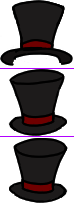
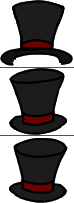
Added hats & accessories (Use /hat and /accessory commands)

diff --git a/website/game/assets.js b/website/game/assets.js
@@ -17,25 +17,62 @@ function loadGameAssets() {
 	ANIM.sit = [[3], 99999]
 	ANIM.wave = [[4,5,4,5,4,5], 0.2]
 
-	// Chicken Customization
-	HATOFFSET = [
-		[[64,1],[64,1],[66,2],[66,9],[64,2],[64,2],[64,1],[64,1]],
-		[[89,3],[89,3],[86,10],[66,9],[64,2],[64,2],[64,1],[64,1]],
-		[[63,2],[63,2],[66,2],[66,9],[64,2],[64,2],[64,1],[64,1]]
-	]
-	ACCESSORYOFFSET = [
-		[[64,1],[64,1],[66,2],[66,9],[64,2],[64,2],[64,1],[64,1]],
-		[[89,3],[89,3],[86,10],[66,9],[64,2],[64,2],[64,1],[64,1]],
-		[[63,2],[63,2],[66,2],[66,9],[64,2],[64,2],[64,1],[64,1]]
-	]
-	IMG.hat = {}
-	IMG.hat["tophat"] = true
-	IMG.accessory = {}
-	IMG.accessory["scarf"] = true
-	IMG.accessory["chain"] = true
-
 	IMG.chatBubble = new RenderImage("assets/chat_bubble.png")
 
+	// Chicken Customization
+	HATOFFSET = [
+		[[64,1],[64,1],[66,2] ,[66,9],[64,2],[64,2],[64,1],[64,1]],
+		[[89,3],[89,3],[86,10],[66,9],[64,2],[64,2],[64,1],[64,1]],
+		[[63,2],[63,2],[66,2] ,[66,9],[64,2],[64,2],[64,1],[64,1]]
+	]
+	ACCESSORYOFFSET = [
+		[[64,55],[64,55],[66,56],[66,63],[64,55],[64,55],[64,1],[64,1]],
+		[[89,49],[89,49],[86,52],[66,63],[64,55],[64,55],[64,1],[64,1]],
+		[[63,56],[63,56],[66,57],[66,63],[64,55],[64,55],[64,1],[64,1]]
+	]
+	IMG.hat = {}
+	SPRITE.hat = {}
+	IMG.hat["tophat"] = true
+	for (const [name, value] of Object.entries(IMG.hat)) {
+		IMG.hat[name] = new RenderImage(`assets/hats/${name}.png`)
+		IMG.hat[name].center = [[0.5, 0.7],[0.5, 0.7],[0.5, 0.7]]
+		fetch(`assets/hats/${name}.json`).then(response => {
+			if (!response.ok) {
+				console.log("JSON Network response was not ok")
+			}
+			return response.json()
+		})
+		.then(data => {
+			IMG.hat[name].center = data.center
+		})
+		.catch(error => {
+			console.log("There was a problem loading the JSON file:", error)
+		})
+		SPRITE.hat[name] = new Sprite(IMG.hat[name], 1, 3, 0, 0, 74, 67, 74, 68)
+	}
+	IMG.accessory = {}
+	SPRITE.accessory = {}
+	IMG.accessory["scarf"] = true
+	IMG.accessory["chains"] = true
+	for (const [name, value] of Object.entries(IMG.accessory)) {
+		IMG.accessory[name] = new RenderImage(`assets/accessories/${name}.png`)
+		IMG.accessory[name].center = [[0.5, 0],[0.5, 0],[0.5, 0]]
+		fetch(`assets/accessories/${name}.json`).then(response => {
+			if (!response.ok) {
+				console.log("JSON Network response was not ok")
+			}
+			return response.json()
+		})
+		.then(data => {
+			IMG.accessory[name].center = data.center
+		})
+		.catch(error => {
+			console.log("There was a problem loading the JSON file:", error)
+		})
+		SPRITE.accessory[name] = new Sprite(IMG.accessory[name], 1, 3, 0, 0, 128, 128, 128, 129)
+	}
+
+	// Area graphics
 	BACKGROUND.hub = new RenderImage("assets/areas/hub.png")
 
 	FONT.caption = new RenderFont("Arial", 20)

diff --git a/website/game/objects/character.js b/website/game/objects/character.js
@@ -120,10 +120,25 @@ class Character {
 		//DRAW.setColor(0,0,0,0.3)
 		//DRAW.rectangle(this.x, this.y, this.w, this.h) //collision
 
+		// Chicken and accessories
 		DRAW.setColor(this.color[0],this.color[1],this.color[2],1.0)
 		DRAW.image(IMG.chicken, this.anim.getSprite(), this.x+this.w/2, this.y+this.h, 0, this.flip, 1, 0.5, 1)
 		DRAW.setColor(255,255,255,1.0)
-		DRAW.image(IMG.chicken, this.anim.getSprite(null, 3), this.x+this.w/2, this.y+this.h, 0, this.flip, 1, 0.5, 1)
+		if ((this.accessory != false) && (IMG.accessory[this.accessory] != null)) { // Accessory
+			let x = this.x+this.w/2 - (SPRITE.chicken.w/2)*this.flip + (ACCESSORYOFFSET[dir_lookup[this.dir]][this.anim.framex][0])*this.flip
+			let y = this.y+this.h - SPRITE.chicken.h + ACCESSORYOFFSET[dir_lookup[this.dir]][this.anim.framex][1]
+			let centerX = IMG.accessory[this.accessory].center[dir_lookup[this.dir]][0]/SPRITE.accessory[this.accessory].w
+			let centerY = IMG.accessory[this.accessory].center[dir_lookup[this.dir]][1]/SPRITE.accessory[this.accessory].h
+			DRAW.image(IMG.accessory[this.accessory], SPRITE.accessory[this.accessory].getFrame(0, dir_lookup[this.dir]), x, y, 0, this.flip, 1, centerX, centerY)
+		}
+		DRAW.image(IMG.chicken, this.anim.getSprite(null, 3), this.x+this.w/2, this.y+this.h, 0, this.flip, 1, 0.5, 1) // Uncolored sprite
+		if ((this.hat != false) && (IMG.hat[this.hat] != null)) { // Hat
+			let x = this.x+this.w/2 - (SPRITE.chicken.w/2)*this.flip + (HATOFFSET[dir_lookup[this.dir]][this.anim.framex][0])*this.flip
+			let y = this.y+this.h - SPRITE.chicken.h + HATOFFSET[dir_lookup[this.dir]][this.anim.framex][1]
+			let centerX = IMG.hat[this.hat].center[dir_lookup[this.dir]][0]/SPRITE.hat[this.hat].w
+			let centerY = IMG.hat[this.hat].center[dir_lookup[this.dir]][1]/SPRITE.hat[this.hat].h
+			DRAW.image(IMG.hat[this.hat], SPRITE.hat[this.hat].getFrame(0, dir_lookup[this.dir]), x, y, 0, this.flip, 1, centerX, centerY)
+		}
 
 		// Nametag
 		DRAW.setFont(FONT.caption)
@@ -155,6 +170,8 @@ class Character {
 	updateProfile(profile) {
 		this.name = profile.name || "NPC" //name
 		this.color = profile.color || [255,255,255]
+		this.hat = profile.hat || false
+		this.accessory = profile.accessory || false
 		//Send profile to server if this is the player
 		if (this.controller == PLAYER_CONTROLLER) {
 			if (NETPLAY != false) {

diff --git a/website/game/sprite.js b/website/game/sprite.js
@@ -4,6 +4,8 @@ class Sprite {
 	//Initialize: image, frame count x & y, offset x & y, frame width & height
 	constructor (img, cx, cy, ox, oy, w, h, ow, oh) {
 		this.img = img
+		this.w = w
+		this.h = h
 		this.frame = []
 		for (let y = 0; y < cy; y++) { // Rows
 			this.frame[y] = []
@@ -11,6 +13,10 @@ class Sprite {
 				this.frame[y][x] = [x*ow+ox, y*oh+oy, w, h] // x, y, w, h
 			}
 		}
+	}
+
+	getFrame (x, y) {
+		return this.frame[y][x]
 	}
 }
 

diff --git a/website/game/hud/chat.js b/website/game/hud/chat.js
@@ -27,7 +27,11 @@ class ChatObject {
 					PLAYER.updateProfile(PROFILE)
 					break
 				case "/hat":
-					PROFILE.hat = Number(arg)
+					PROFILE.hat = arg
+					PLAYER.updateProfile(PROFILE)
+					break
+				case "/accessory":
+					PROFILE.accessory = arg
 					PLAYER.updateProfile(PROFILE)
 					break
 				case "/area": // Warp to a different area

diff --git a/website/game/savedata.js b/website/game/savedata.js
@@ -35,8 +35,8 @@ function makeProfile() {
 			Math.floor(100 + Math.random()*155),
 			Math.floor(100 + Math.random()*155)
 		],
-		hat: 0,
-		clothing: 0,
+		hat: false,
+		accessory: false,
 		money: 0,
 		pet: false
 	}
